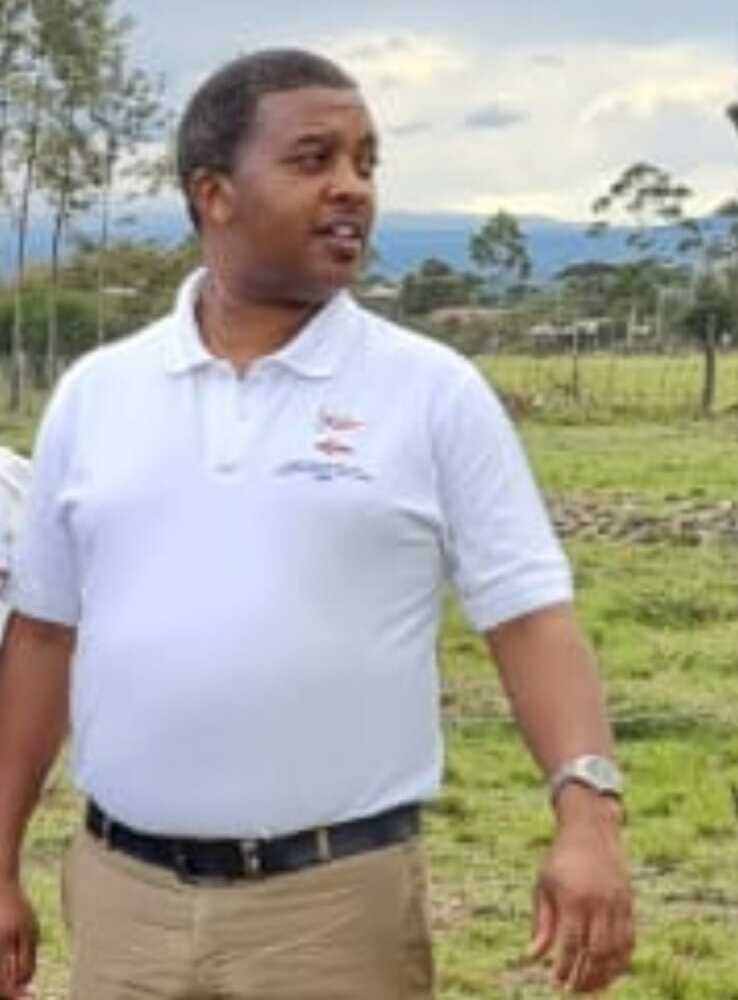
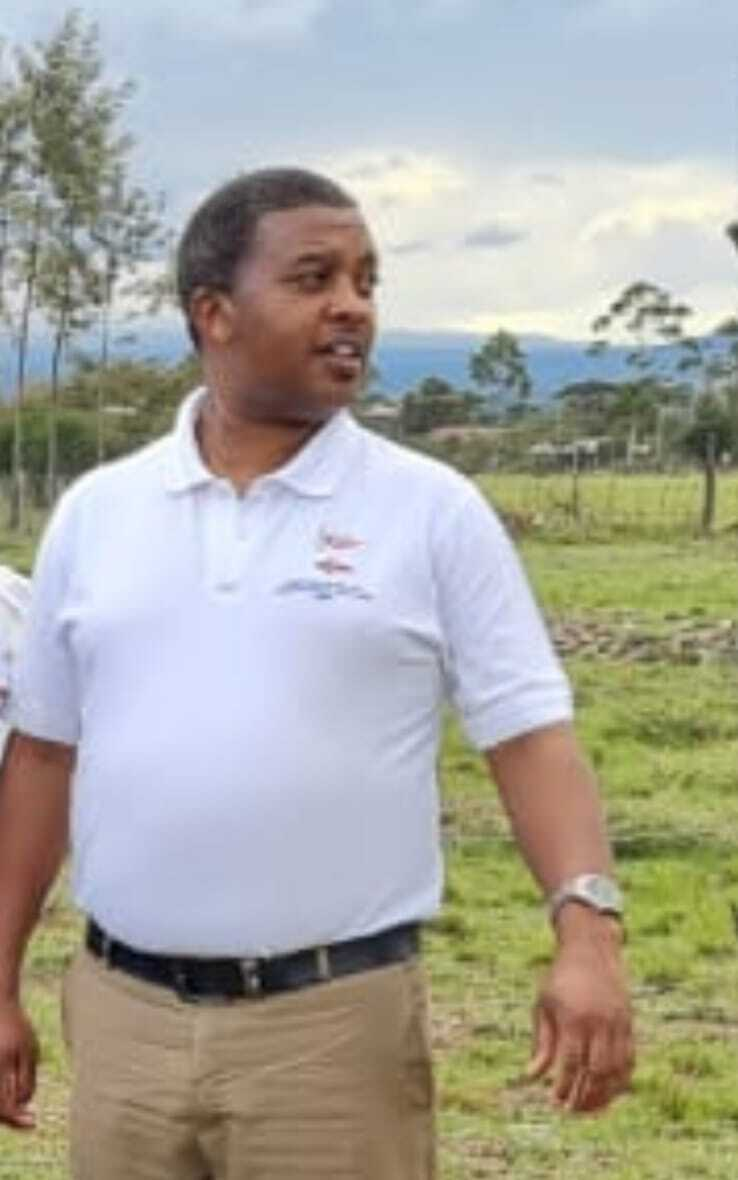
Images updated #Testimonails Added #Roles Update #v.1.0.0.0.0.2

diff --git a/about.html b/about.html
@@ -347,7 +347,8 @@
                 </div>
                 <div class="col-lg-4 col-md-6 mt-lg-5 mt-4">
                     <div class="box16">
-                        <a href="#url"><img alt="" class="rounded img-fluid" src="assets/images/default.jpg"/></a>
+                        <a href="#url"><img alt="" class="rounded img-fluid"
+                                            src="assets/images/vincentmwangi.jpeg"/></a>
                         <div class="box-content">
                             <h3 class="title"><a href="#url">Vincent Mwangi</a></h3>
                             <span class="post">Contractor</a></span>

diff --git a/index.html b/index.html
@@ -259,7 +259,7 @@
                 </div>
                 <div class="cwp4-image col-lg-4 col-md-6">
                     <div class="grids4-info">
-                        <a href="#"><img alt="" class="img-fluid rounded" src="assets/images/title1.jpeg"></a>
+                        <a href="#"><img alt="" class="img-fluid rounded" src="assets/images/deed3.jpg"></a>
                         <div class="info-bg">
                             <h5><a href="#">READY TITLE DEEDS</a></h5>
                             <span class="price">ALL LEGAL PROCEDURES ARE CATERED FOR</span>
